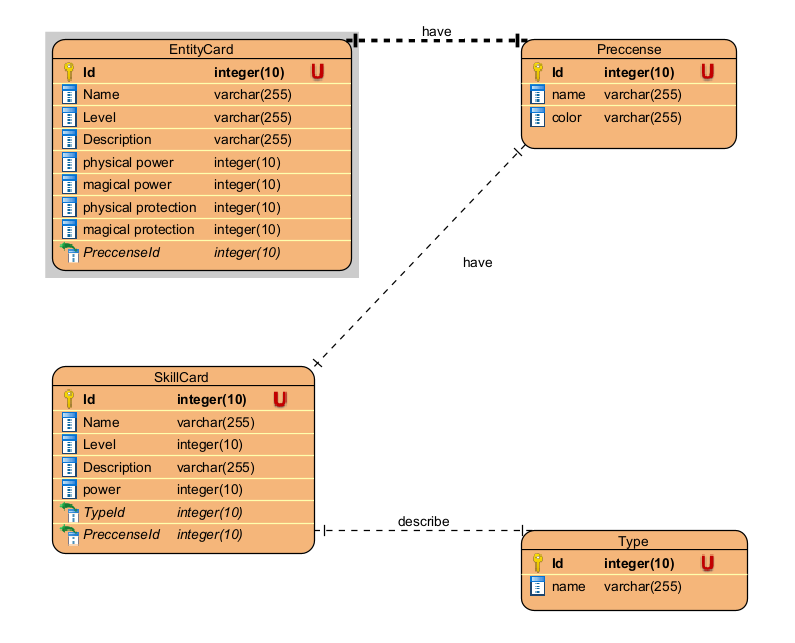
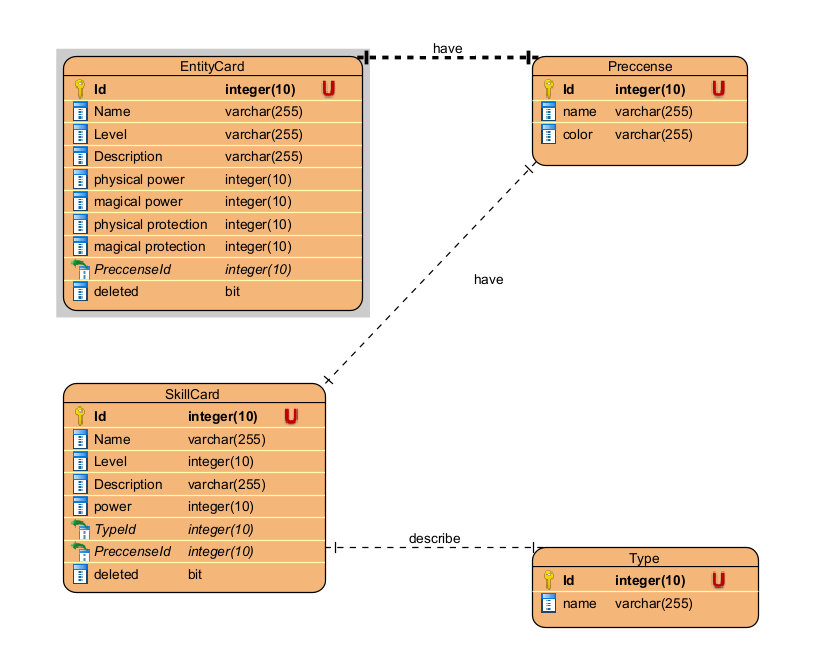
feat: added Card.java

Changed region(s): [[0.0302, 0.0311, 0.9358, 0.5288], [0.0604, 0.5288, 0.966, 0.9642], [0.5736, 0.4044, 0.634, 0.4355]]

diff --git a/src/main/java/org/example/Models/Card.java b/src/main/java/org/example/Models/Card.java
@@ -1,0 +1,37 @@
+package org.example.Models;
+
+import lombok.*;
+
+import javax.persistence.Entity;
+import javax.persistence.MappedSuperclass;
+
+/**
+ * Cart abstract Class.
+ *
+ * @author Matias Orellana Hormazábal.
+ */
+@ToString
+@MappedSuperclass
+@Getter
+@Setter
+@AllArgsConstructor
+@Builder
+@Entity
+public abstract class Card extends BaseModel{
+
+    /**
+     * The level.
+     */
+    private int level;
+
+    /**
+     * The description.
+     */
+    private String description;
+
+    /**
+     * The deleted.
+     */
+    private boolean deleted;
+
+}
